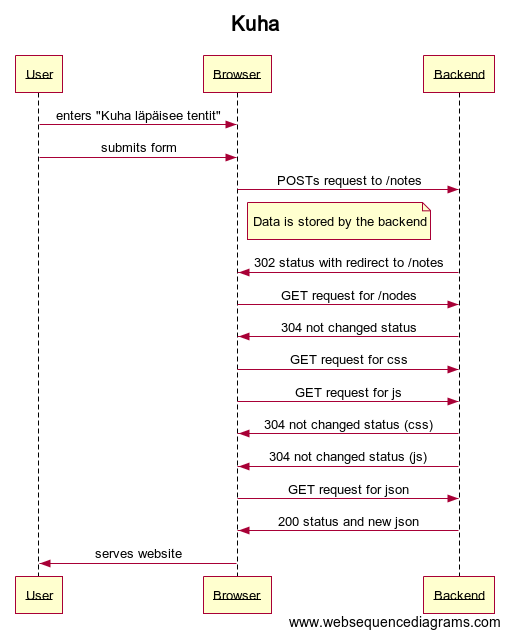
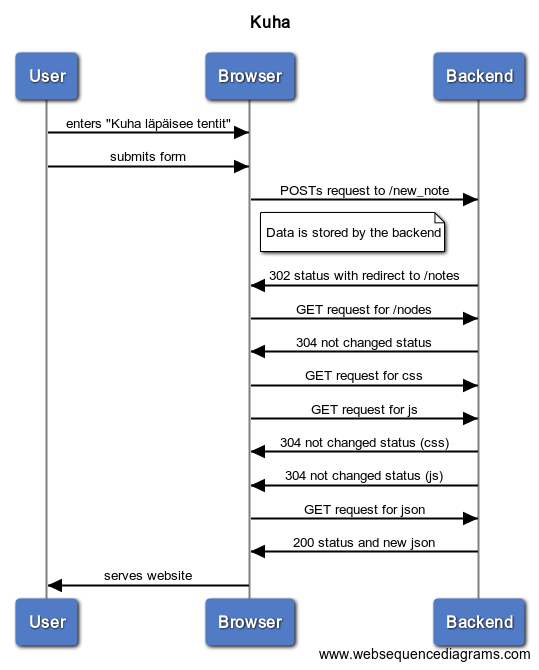
update for 2020

Changed region(s): [[0.0295, 0.0, 1.0, 1.0]]

diff --git a/week_0/README.md b/week_0/README.md
@@ -12,7 +12,7 @@ title Kuha
 
 User->Browser: enters "Kuha läpäisee tentit"
 User->Browser: submits form
-Browser->Backend: POSTs request to /notes
+Browser->Backend: POSTs request to /new_note
 note right of Browser: Data is stored by the backend
 Backend->Browser: 302 status with redirect to /notes
 Browser->Backend: GET request for /nodes
@@ -31,9 +31,35 @@ Browser->User: serves website
 Events for user navigating to /spa
 
 ![sequence_3](Spa_1.png)
+<!--
+title SPA
+
+User->Browser: presses CTRL + F5
+Browser->Backend: GET request to /spa
+Backend->Browser: 200 status and .html
+Browser->Backend: GET request for /main.css
+Browser->Backend: GET request for /spa.js
+Backend->Browser: 200 status and css
+Backend->Browser: 200 status and js
+Browser->Backend: GET request for /data.json
+Browser->Backend: GET request for /favicon.ico
+Backend->Browser: 200 status and json
+Backend->Browser: 404 status
+Browser->User: serves website
+-->
 
 ## /spa 2
 
 Events for user submitting the note "Ei tartte voimaa lukee"
 
 ![sequence_4](Spa_2.png)
+<!--
+title SPA post
+
+User->Browser: Enters "Ei tartte voimaa lukee"
+User->Browser: Submits form
+Browser->Backend: POST request to /new_note_spa
+note right of Browser: Data is stored by the backend
+Backend->Browser: 201 status
+Browser->User: serves website
+-->
